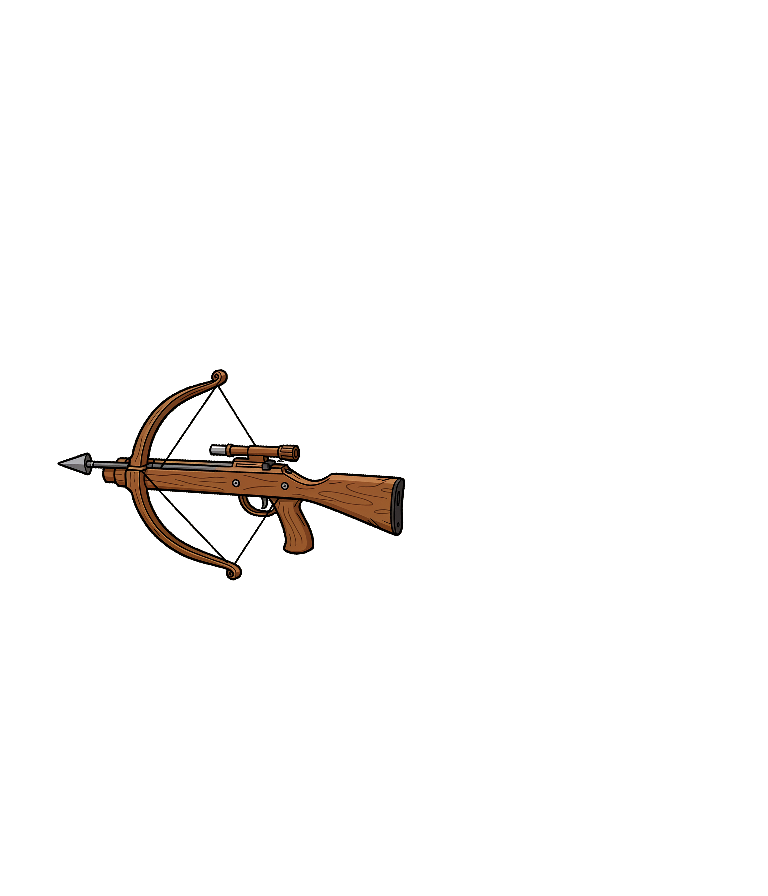
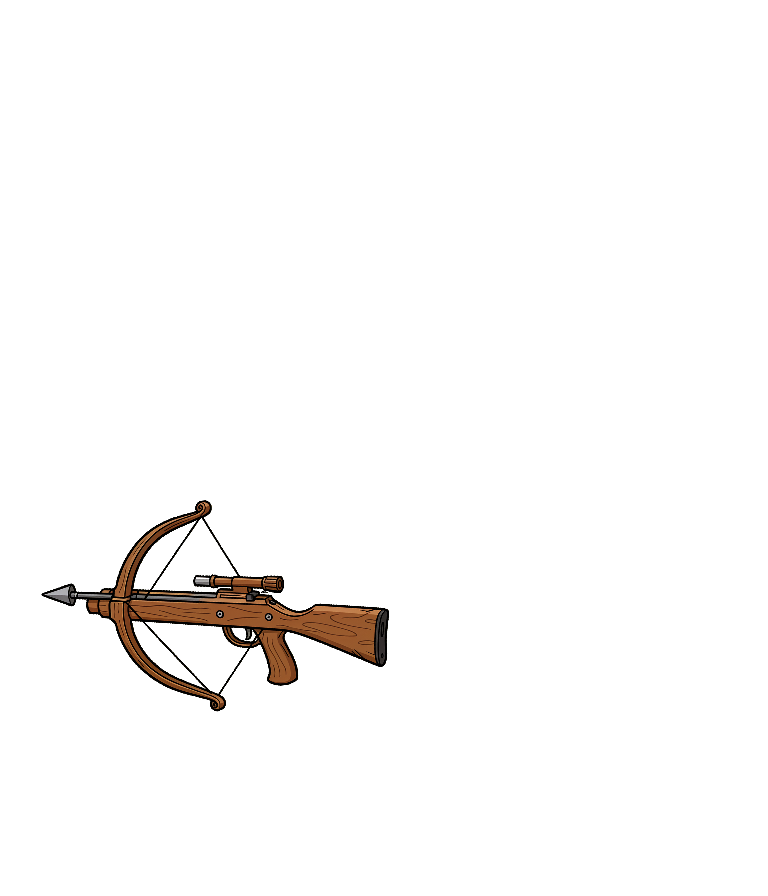
AI-6: align crossbows with hands and ropes with balloon knots

Changed region(s): [[0.0625, 0.4062, 0.5312, 0.8125]]

diff --git a/docs/ROADMAP.md b/docs/ROADMAP.md
@@ -1,5 +1,5 @@
 # Текущее состояние
-Фазы игры 1–4 приняты и опубликованы в 0.4.0 / PR #4. Технический выпуск 0.5.0 (AI-5-web-pages): публичный репозиторий и Pages по прямому запросу владельца 2026-11-06. Проверка физического телефона остаётся открытой.
+Фазы игры 1–4 приняты и опубликованы в 0.4.0 / PR #4. Технический выпуск 0.5.0 / PR #5 добавил публичный репозиторий и Pages. Исправления привязок приняты владельцем 2026-11-06 («теперь устраивает, можно принимать и идти дальше»), выпуск 0.6.0 / AI-6-sprite-attachments. Проверка физического телефона остаётся открытой.
 
 Фаза 4 принята владельцем 2026-11-05 сообщением «в остальном принимается. добавляй правки в мастер»; уточнение «мебель по умолчанию включена» выполнено в gameplay.tres. Владелец принял начальный стиль сообщением «для начала приемлемо. делай весь пак спрайтов до момента когда игру можно будет пробовать» и разрешил серийную подготовку на FLUX.2 Klein 9B. Модель и общие параметры зафиксированы в art/art-lock.json и копии в пакете. Не менять модель для отдельных спрайтов.
 
@@ -99,3 +99,9 @@
 ## Технический этап Web — отдельно от игровой фазы 5
 Владелец запросил «открой репозиторий и сделай pages плюс что-бы он обновлялся с приёмкой игры». Репозиторий переведён в публичный; Pages использует workflow .github/workflows/web-pages.yml. Экспорт из общего проекта, версия движка 4.7.2 закреплена, игровой пакет и баланс сохранены. Номер AI-5 соответствует техническому выпуску 0.5.0; анимации игровой фазы 5 не считаются выполненными или принятыми.
 Контрольная точка Web: успешно проходят штатные проверки и экспорт; страница открывается по HTTPS, позволяет перезапуск и выстрел, без ошибок браузера; feature-ветки не публикуются, master после принятого PR обновляет сайт. Ручное вмешательство в gh-pages не требуется. После этого вернуться к игровой фазе 5 и её отдельной приёмке. По Visual Studio проверены установленные компоненты, реестр и типовые пути: пригодные Android SDK/JDK не найдены. Android-сборка и физический телефон остаются открытыми задачами.
+
+## Текущая локальная правка — боковой арбалет
+Ветка AI-6-sprite-attachments, замечание владельца 2026-11-06: оружие в боковых позах находилось на уровне головы. Исправлена точка привязки к кисти в манифесте подготовки; заново собраны только изменившиеся боковые PNG, сохранены зеркало и прежняя поза вверх. Это исправление принятого статичного пакета, не новая анимация фазы 5. Проверены IMPORT_OK, FOUNDATION_OK, ROUND_TESTS_OK, CONTROLS_TESTS_OK, ASSET_PACK_TESTS_OK и игровые кадры вправо/влево. Контрольные суммы подтвердили изменение только двух боковых PNG, остальные 45 сохранены. Боковые позы арбалета приняты владельцем 2026-11-06 сообщением «отлично». Обе привязки приняты владельцем, публикуются вместе в 0.6.0.
+
+## Текущая локальная правка — хвостики шариков
+Замечание владельца 2026-11-06: наклонные верёвки выходят из центра/бока шариков. В AI-6-sprite-attachments добавлена визуальная точка balloon_rope_anchor=(0.5,0.98) в данные пакета. Верёвка начинается на нижнем узелке каждого шарика, не меняя бой или центры попадания. У фигур конец перенесён на нижнюю границу круга. PNG шариков не перерисовывались: все 47 контрольных сумм совпали с предыдущим локальным набором. Проверены импорт, все четыре штатные проверки и Web-экспорт. По игровому кадру до/после сверены крайние шарики танка с четырьмя верёвками: линии начинаются от нижних хвостиков. Верёвочки приняты владельцем 2026-11-06 вместе с разрешением перейти дальше; публикация общая с арбалетом, 0.6.0. Следующий шаг — первая группа фазы 5: выстрел, лопание шарика, отлёт брони. Новая группа требует отдельной визуальной приёмки.

diff --git a/docs/ASSET_PACKS.md b/docs/ASSET_PACKS.md
@@ -36,3 +36,9 @@ tools/capture_pack.gd сохраняет воспроизводимый кадр
 ## Балкон и финальный босс
 Все стадии балкона имеют единый кадр 985x250, balcony_draw_height=125; исходные видимые 200 пикселей продолжают отображаться высотой 100. Верхние 87 строк исходного настила не изменяются до финального обрушения. Подпорки заменяются сгенерированными обломками, обшивка берётся из последовательных масочных изменений только ниже настила. Все crop, позиции и порядок перечислены в balcony_preparation манифеста; это данные подготовки оформления, не параметры боя.
 Во время финального падения перемещается characters/boss, после касания земли используется отдельный обязательный characters/boss_defeated и открывается экран победы. Покадровая поза падения относится к фазе 5; само перемещение с ускорением уже реализовано в фазе 4 по замечанию владельца.
+
+## Боковая привязка арбалета
+weapon_transforms в art/build-static-pack.json задаёт подготовку уже сгенерированного оружия. У правой позы точка anchor=(500,645) на холсте 768x896 совмещает рукоять с кистью; левая зеркалится из готового правого слоя. Прежняя anchor=(484,514) ошибочно помещала оружие на уровне головы. Вертикальная поза и все слои персонажа остаются прежними. Значения также сохранены в asset-preparation.json; существующая утилита sprite_assets.py читает их из манифеста.
+
+## Крепление верёвок шариков
+balloon_rope_anchor — нормализованная точка крепления в изображении шарика, для текущего пакета (0.5,0.98), нижний хвостик. Манифест подготовки хранит это поле, утилита переносит его в pack.tres и asset-preparation.json. Представление масштабирует точку вместе со спрайтом и начинает верёвку от неё, включая крайние наклонные верёвки танка. Игровой центр, хитбоксы, шаг шариков и случайные цвета не сдвигаются. У пакета фигур линия начинается на нижней границе круга.

diff --git a/CHANGELOG.md b/CHANGELOG.md
@@ -1,4 +1,9 @@
 # Changelog
+## [0.6.0] - 2026-11-06 (AI-6)
+### Fixed
+- Наклонные верёвки крепятся к нижним хвостикам шариков, сохраняя центры и зоны попадания.
+- Боковые позы арбалета совмещены с кистью Гаечки вместо уровня головы; привязка сохранена в манифесте подготовки.
+
 ## [0.5.0] - 2026-11-06 (AI-5)
 ### Added
 - Браузерный профиль Godot и публичная игровая страница GitHub Pages.
